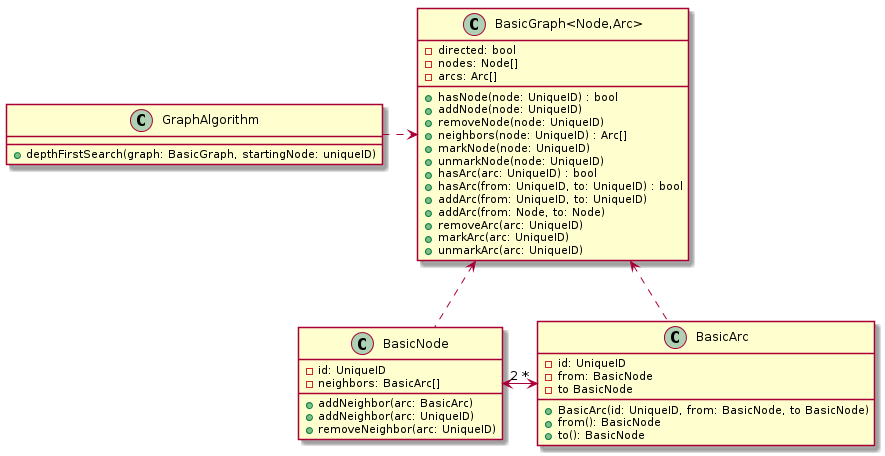
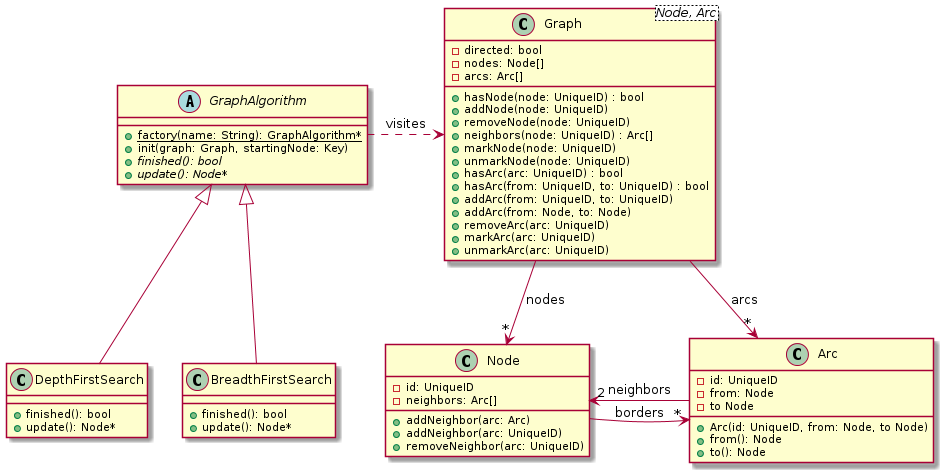
Updating doc

diff --git a/doc/Architecture.md b/doc/Architecture.md
@@ -25,26 +25,53 @@ they are synonyms.
 ## Classic spreadsheet and SimTaDyn spreadsheet
 
 A classic spreadsheet is a rectangular pavement of cells. Internally
-it's a matrix (2D array) of cells where the dimension is given by the
-number of rows and columns.
+it's a (sparse) matrix (2D array) of spreadsheet cells. Each cells
+have a name: the concatenation of its column (expressed in base 26)
+and its row (given in base 10). For example: `AZ42` means row `AZ` and
+column `42`. The matrix dimension is given by the number of rows and
+columns of the sheet.
 
-A cell contains a formulae (given as a string) and the result of the
-formulae once interpreted. A formulae is a mixture of literal values,
-references to other cell and operators. An interpreter computes the
-formulae and saves the result. The interpreter has to solve references
-to other cells. A reference to a cell refers to the result of the
-computed formulae. The cell is referred by the concatenation of its
-column (expressed in base 26) and its row (given in base 10). For
-example: AZ42 means row AZ and column 42.
+A cell contains a formulae and the result of this formulae:
+* A formulae is a mixture of literal values, references to other cell
+and operators. For example, a possible formula for the cell `A1` can
+be `(5 + AZ42) * 2`.
+* The result of a cell is stored since the formulae has been
+interpreted with success. For example if the cell `AZ42` has 0 as
+result, the intermediate formulae for `A1` will be (5 + 0) * 2 and
+therefore its result will be 10.
 
-When a cell is solved its result is used for solving formulae on other
-cells. By iteration the whole spreadsheet is computed. When the user
-enters a value or a formulae in a cell, this one notifies to others
-cells that its content has changed to force them to refresh the result
-of their formulae. The design pattern observer is used for
-notifications like shown on the next figure.
+An interpreter computes the formulae of the spreadsheet and saves the
+result. Operators can be more complex that basic mathematics operators,
+we can think about loops and controls. The interpreter has to solve
+references to other cells. A reference to a cell refers in fact to the
+result of the computed formulae. Solving a spreadsheet is based on the
+fact: When a cell is solved its result is used for solving formulae on
+other cells and by iteration the whole spreadsheet can be computed.
 
-![alt tag](https://github.com/Lecrapouille/SimTaDyn/blob/master/doc/uml/spreadsheet.png)
+The simpler algorithm for solving a spreadsheet is the follow:
+* We separate the spreadsheet into two set: a first set (named
+topological list) contains cells that do not reference other cells
+(for example: literals like `42` or computation with only literals
+like `(5 * 2) + 4`.  A second set (named dependencies list) contains
+cells with referencing to cells with or without operations (like
+`AZ42` or `AZ42 + 42`).
+* For each cell from the topological set, compute its result and find
+its relation in the dependencies list. If a formulae can be solved,
+place this cell to the topological list.
+* Iterate until there no more cells in the topological list.
+* The spreadsheet can reach two states: `success` when all cells have
+been computed or `failed` when there is a cyclic references between
+cells (for example cell `A1` has formulae `B1 + 1` and cell `B1` has
+formulae `A1 + 1`). This case is detected when the algorithm has no longer
+cells in the topological list but still has cells in the dependencies list.
+
+When the user enters a new value or a new formulae in a cell of a
+spreadsheet, this one notifies to others cells referring it that its
+content has been changed. This force them to refresh the result of
+their formulae. The design pattern observer is used for notifications
+like shown on the next figure.
+
+![alt tag](https://github.com/Lecrapouille/SimTaDyn/blob/development/doc/uml/spreadsheet.png)
 
 In the case of SimTaDyn, we use a Forth interpreter, named SimForth,
 as replacement of the classic Excel VBA language. The formulae shall
@@ -58,75 +85,80 @@ through a key index.
 The SpreadSheet class is an abstract class containing virtual methods
 like resetCellIterator(), hasCell(), nextCell() used for iterating on
 cells while keeping independent on the implementation of the container
-storing cells. For example SimTaDyn does not use a matrix but a
-special graph. A SimTaDyn spreadsheet is an implementation of the
-SpreadSheet class: the sheet pavement contains three types of cells:
-nodes, arcs and polygons. The structure of the SimTaDyn spreadsheet is
-an extended graph. This complex structure will be describe in the
-coming section. A class named GraphAlgorithm is used for traversing
-the graph. The next figure shows how are interfaced these methods
-between the spreadsheet and the graph.
+storing cells. Indeed SimTaDyn does not use a matrix but a special
+graph: the sheet pavement contains three types of cells: nodes, arcs
+and polygons. The structure of the SimTaDyn spreadsheet is an extended
+graph. This complex structure will be describe in next sections in
+this document. A class named GraphAlgorithm is used for traversing the
+graph. The next figure shows how are interfaced these methods between
+the spreadsheet and the graph.
 
-![alt tag](https://github.com/Lecrapouille/SimTaDyn/blob/master/doc/uml/simsheet.png)
+![alt tag](https://github.com/Lecrapouille/SimTaDyn/blob/development/doc/uml/simsheet.png)
 
-A classic spreadsheet contain at least one pages (workbook). This is
-also the case for SimTaDyn: A SimMap is a class containing several
-SimSheet. For drawing all sheets in OpenGL, we use an other graph:
-a [Scene graph](https://research.ncl.ac.uk/game/mastersdegree/graphicsforgames/)
-for storing all sheets. A scene graph stores on its node a 4x4 matrix and a 3D object.
-The matrix represents the relative positions between them (rotation translation,
-and scaling). This allows easier 3D manipulations of objects individually.
+A classic spreadsheet contains at least one pages. It's named
+workbook. This is also the case for SimTaDyn: A SimTaDynMap is a class
+contains several SimTaDynSheet. The structure of the workbook is
+[Scene graph](https://research.ncl.ac.uk/game/mastersdegree/graphicsforgames/).
+This allows to display them with OpenGL and contains relative
+transformation (rotation translation, and scaling) between maps. This
+will be explained later in this document.
 
 ## Extended graph structure as a spreadsheet
 
 A classic graph contains nodes (aka vertices) and arcs (aka edges).
-A SimTaDyn graph is a particular graph: it also stores polygons (aka
-areas, aka zones) delimited by the arcs. Zones can be see like
-geographic areas, or Excel cells or polygons of a 2D/3D mesh.
+In the graph theory literature many structures are described for
+storing nodes and arcs (adjacency list, matrix, sparse matrix) but in
+SimTaDyn, we have decided to define the graph structure with relations
+"has borders" and "has neighbors" (the expression "has neighbors" is
+equivalent to "is a border of"). The following figure summarizes it:
 
-In the graph theory literature many graph structures are described
-for storing nodes and arcs (adjacency list, matrix, sparse
-matrix) like shown in the following figure.
+![alt tag](https://github.com/Lecrapouille/SimTaDyn/blob/development/doc/uml/graph.png)
 
-![alt tag](https://github.com/Lecrapouille/SimTaDyn/blob/master/doc/uml/graph.png)
+In this figure, we can see a class named GraphAlgorithm decomposed it
+with virtual methods to allow visiting step by step a graph with
+standard algorithms like [depth-first
+search](https://en.wikipedia.org/wiki/Depth-first_search) or
+breadth-first search, and get visited nodes at each step. This will
+help us to visit cells of our spreadsheet like described in other part
+of this document.
 
-In SimTaDyn, we decided to define the graph structure by the relation
-"has borders" and "neighbors" (aka "is a border of") of its elements:
+![alt tag](https://github.com/Lecrapouille/SimTaDyn/blob/development/doc/uml/simgraph.png)
+
+A SimTaDyn graph is a particular graph: it extends a classic graph by
+storing polygons (aka areas, aka zones) delimited by the arcs. Zones
+can be see like geographic areas, or Excel cells or polygons of a
+2D/3D mesh. We also extend relations "has borders", "is a border of"
+and "has neighbors":
 
 * A node is a border of an arc.
 * An arc is a border of a zone.
 * A zone is a border of 3D zone.
-* A 3D zone is a border of ... etc, etc.
-* A zone has N borders (N arcs).
-* A arc has two borders (two nodes).
+* A 3D zone is a border of 4D zone ... etc, etc.
+* A zone has N borders: N arcs. Said differently: A node knows arcs as neighbors.
+* A arc has two borders: two nodes. Said differently: An arc knows zones as neighbors.
 * A node has no border.
 
-The inverse relation is also defined:
-* A node knows arcs as neighbors.
-* An arc knows zones as neighbors.
-* A zone contains several (at least 3) arcs.
-* An arc contains two nodes.
+There is indirect neighborship relations:
+* A node knows indirectly zones as neighbors because of arcs.
+* A zone can knows its vertices through iterating on borders of its
+  arcs.
 
-The follow TODO A refaire
-![alt tag](https://github.com/Lecrapouille/SimTaDyn/blob/master/doc/uml/simgraph.png)
+TODO: relations "has borders", "is a border of" and "has neighbors"
+should be defined by global index arrays instead to be private
+variable members. This can may be make access easier (like drawing).
 
-A node knows indirectly which zones is near him through the arcs
-neighbors list. A zone knows indirectly its nodes.
-
-From aclassic graph and its nodes, arcs. We use template class for easier usage.
-We use inheritance to make a ForthNode a graph node to be used as a spreadsheet cell.
-We use inheritance to make a ForthArc a graph arc to be used as a spreadsheet cell.
-A ForthZone is directly a spreadsheet cell.
-
-With a graph we can implement some basic algorithms like the [depth-first search](https://en.wikipedia.org/wiki/Depth-first_search),
-Breadth-first search, ... We made an abstract class GraphAlgorithm for iterating on cells of the
-spreadsheet when the Forth interpreter is interpreting the sheet.
+We use inheritance to make a ForthNode a graph node to be used as a
+spreadsheet cell.  We use inheritance to make a ForthArc a graph arc
+to be used as a spreadsheet cell. A ForthZone is directly a
+spreadsheet cell. We use inheritance of the GraphAlgorithm for
+iterating on cells of the spreadsheet when the Forth interpreter is
+solving a spreadsheet.
 
 ## SimTaDyn Forth Interpreter
 
 Forth is computer language. For SimTaDyn it replaces the Excel VBA
 language. If you do not what Forth is, you should read [this
-page](https://github.com/Lecrapouille/SimTaDyn/blob/master/src/forth/doc/forth.md)
+page](https://github.com/Lecrapouille/SimTaDyn/blob/development/src/forth/doc/forth.md)
 which explains what it is, how it's working and how it's interpreter
 is implemented.
 
@@ -140,7 +172,7 @@ the forth interpreter, for storing the call of operators.
 The SimTaDyn Forth is a special Forth which understand the spreadsheet
 cell names and which contains a stack for storing cells references.
 
-![alt tag](https://github.com/Lecrapouille/SimTaDyn/blob/master/doc/uml/simforth.png)
+![alt tag](https://github.com/Lecrapouille/SimTaDyn/blob/development/doc/uml/simforth.png)
 
 Some methods of the Forth interpreter class are virtual. This is made
 for specializing a classic Forth interpreter for the SimTaDyn project,
@@ -151,32 +183,61 @@ SimTaDyn (for example OpenGL).
 
 ## Resources
 
-SimTaDyn has to manage many resources like project files, maps, forth
-scripts, textures, ... Resources come from files so SimTaDyn has to
-load and save them. It also has to import and export files from
-proprietary software (shapefile, ...). Resources are shareable by
-several clients: they dispose of them and release them.
+SimTaDyn has to manage many resources like project files, maps,
+sheets, forth scripts, textures, ... Resources come from files on the
+hard-disk (for the moment) so SimTaDyn has to load and save them. It
+also has to import and export files from proprietary software
+(shapefile, ...). Resources are shareable by several clients (Forth
+editor, Map editor, GUI widgets): they do not have to create or
+dispose of them directly. This is the job for other classes: the
+resource manager and the loader manager.
 
-To simplify the code. Here is the class diagram managing, resources
-and loaders.
+![alt tag](https://github.com/Lecrapouille/SimTaDyn/blob/development/doc/uml/loader.png)
 
-![alt tag](https://github.com/Lecrapouille/SimTaDyn/blob/master/doc/uml/loader.png)
+A resource manager takes care of the life of resources and release it
+automatically when nobody no longer uses it. Resources are identified
+by their unique ID (integer, enum, string ...).
 
-A resource manager take care of the life of resources and release the
-ones that nobody uses. Resources are identified by their unique ID. A
-loader manager manages a collection of loaders indexed by the file
-extension. A loader creates a new resource from a file (loading) and
-saves a resource in file. For example the texture loader creates
-OpenGL objects from jpeg, png, bmp files.
+A loader manager manages a collection of loaders. A loader creates a
+new resource from a file (loading) ot saves it in file. We can extend
+this idea to other support (memory, Ethernet ...). A loader manager is
+mainly a map between a loader and file extensions. For example an
+OpenGL texture can be created from jpeg or png or bmp files. In this
+case we one resource (the OpenGL texture), 4 file extension referring
+the same texture loader.
+
+Sequences:
+* The resource manager creates and store a new dummy resource.
+* The resource is passed to the loader manager to be loaded.
+* The user acquires to the resource from the resource manager for using it.
+* The user ask the resource manager to dispose of the resource.
+* The resource is destroyed when nobody is using of it.
 
 ## Renderer
 
 ### OpenGL Wrapper
 
-Wraps OpenGL 3.3 API into a C++ class. More informations are given in [this page](https://github.com/Lecrapouille/SimTaDyn/blob/dev-new-opengl/doc/OpenGL.md)
+Wraps OpenGL 3.3 API into a C++ class. More information are given in
+[this page](https://github.com/Lecrapouille/SimTaDyn/blob/dev-new-opengl/doc/OpenGL.md)
 
-### Renderer
+### OpenGL Renderer
 
-Use an OpenGL Wrapper.
-SimTaDyn maps are stored withing a [SceneGraph](https://research.ncl.ac.uk/game/mastersdegree/graphicsforgames/scenegraphs/Tutorial%206%20-%20Scene%20Graphs.pdf)
-and displayed with the OpenGL wrapper.
+A SimTaDyn map uses the structure of
+[SceneGraph](https://research.ncl.ac.uk/game/mastersdegree/graphicsforgames/scenegraphs/Tutorial%206%20-%20Scene%20Graphs.pdf)
+where its nodes are SimTaDynSheets. SimTaDynSheets are displayed by the OpenGL wrapper.
+
+As a fast summary of the previous link, a scene graph is a tree
+structure (not a graph for this project) storing the relative
+transformation between a node and its parent. In our case nodes store
+a transformation matrix. This allows to easily place and move a set of
+3D objects in relation. Let suppose we want to draw a car and its four
+wheels.  Wheels turn with 2 degrees of liberty but when we are
+translating the car we also want to apply this translation to
+wheels. Scene graph will compute all matrices for us and apply it to
+objects.
+
+The reason of why using a scene graph for storing sheets of a
+spreadsheet comes from the idea that it could be interesting to place
+a set of geographic maps together (for example two maps with different
+position and scaling) can be superposed (georeferenced) without doing
+maths.

diff --git a/README.md b/README.md
@@ -12,23 +12,23 @@
 SimTaDyn is a proof of concept project for a geographic information
 system (GIS) allowing to draw geographic maps and manipulate them like
 a spreadsheet. The goal is to design dynamical geographic simulations.
-Please, read this [introduction](https://github.com/Lecrapouille/SimTaDyn/blob/master/doc/SimTaDyn.md)
+Please, read this [introduction](https://github.com/Lecrapouille/SimTaDyn/blob/development/doc/SimTaDyn.md)
 to understand better the idea of this project.
 
-![alt tag](https://github.com/Lecrapouille/SimTaDyn/blob/master/doc/SimTaDyn.jpg)
+![alt tag](https://github.com/Lecrapouille/SimTaDyn/blob/development/doc/SimTaDyn.jpg)
 *This screenshot comes from the legacy version of SimTaDyn*
 
 ##### Table of contents:
 
-* [Introduction to SimTaDyn](https://github.com/Lecrapouille/SimTaDyn/blob/master/doc/SimTaDyn.md)
-* [Compile and install SimTaDyn](https://github.com/Lecrapouille/SimTaDyn/blob/master/doc/Install.md)
-* [SimTaDyn known bugs](https://github.com/Lecrapouille/SimTaDyn/blob/master/doc/Bugs.md)
-* [Report bugs](https://github.com/Lecrapouille/SimTaDyn/blob/master/doc/Bugs.md)
-* [SimTaDyn GUI shortcuts](https://github.com/Lecrapouille/SimTaDyn/blob/master/doc/Shortcuts.md)
-* [SimTaDyn Forth scripting](https://github.com/Lecrapouille/SimTaDyn/blob/master/src/forth/doc/forth.md)
-* [Forth standalone](https://github.com/Lecrapouille/SimTaDyn/blob/master/src/forth/doc/standalone.md)
-* [SimTaDyn architecture for developpers](https://github.com/Lecrapouille/SimTaDyn/blob/master/doc/Architecture.md)
-* [Credits](https://github.com/Lecrapouille/SimTaDyn/blob/master/doc/Credits.md)
+* [Introduction to SimTaDyn](https://github.com/Lecrapouille/SimTaDyn/blob/development/doc/SimTaDyn.md)
+* [SimTaDyn code architecture](https://github.com/Lecrapouille/SimTaDyn/blob/development/doc/Architecture.md)
+* [Compile and install SimTaDyn](https://github.com/Lecrapouille/SimTaDyn/blob/development/doc/Install.md)
+* [SimTaDyn known bugs](https://github.com/Lecrapouille/SimTaDyn/blob/development/doc/Bugs.md)
+* [Report bugs](https://github.com/Lecrapouille/SimTaDyn/blob/development/doc/Bugs.md)
+* [SimTaDyn GUI shortcuts](https://github.com/Lecrapouille/SimTaDyn/blob/development/doc/Shortcuts.md)
+* [SimTaDyn Forth scripting](https://github.com/Lecrapouille/SimTaDyn/blob/development/src/forth/doc/forth.md)
+* [Forth standalone](https://github.com/Lecrapouille/SimTaDyn/blob/development/src/forth/doc/standalone.md)
+* [Credits](https://github.com/Lecrapouille/SimTaDyn/blob/development/doc/Credits.md)
 
 ##### Note concerning git branches
 
